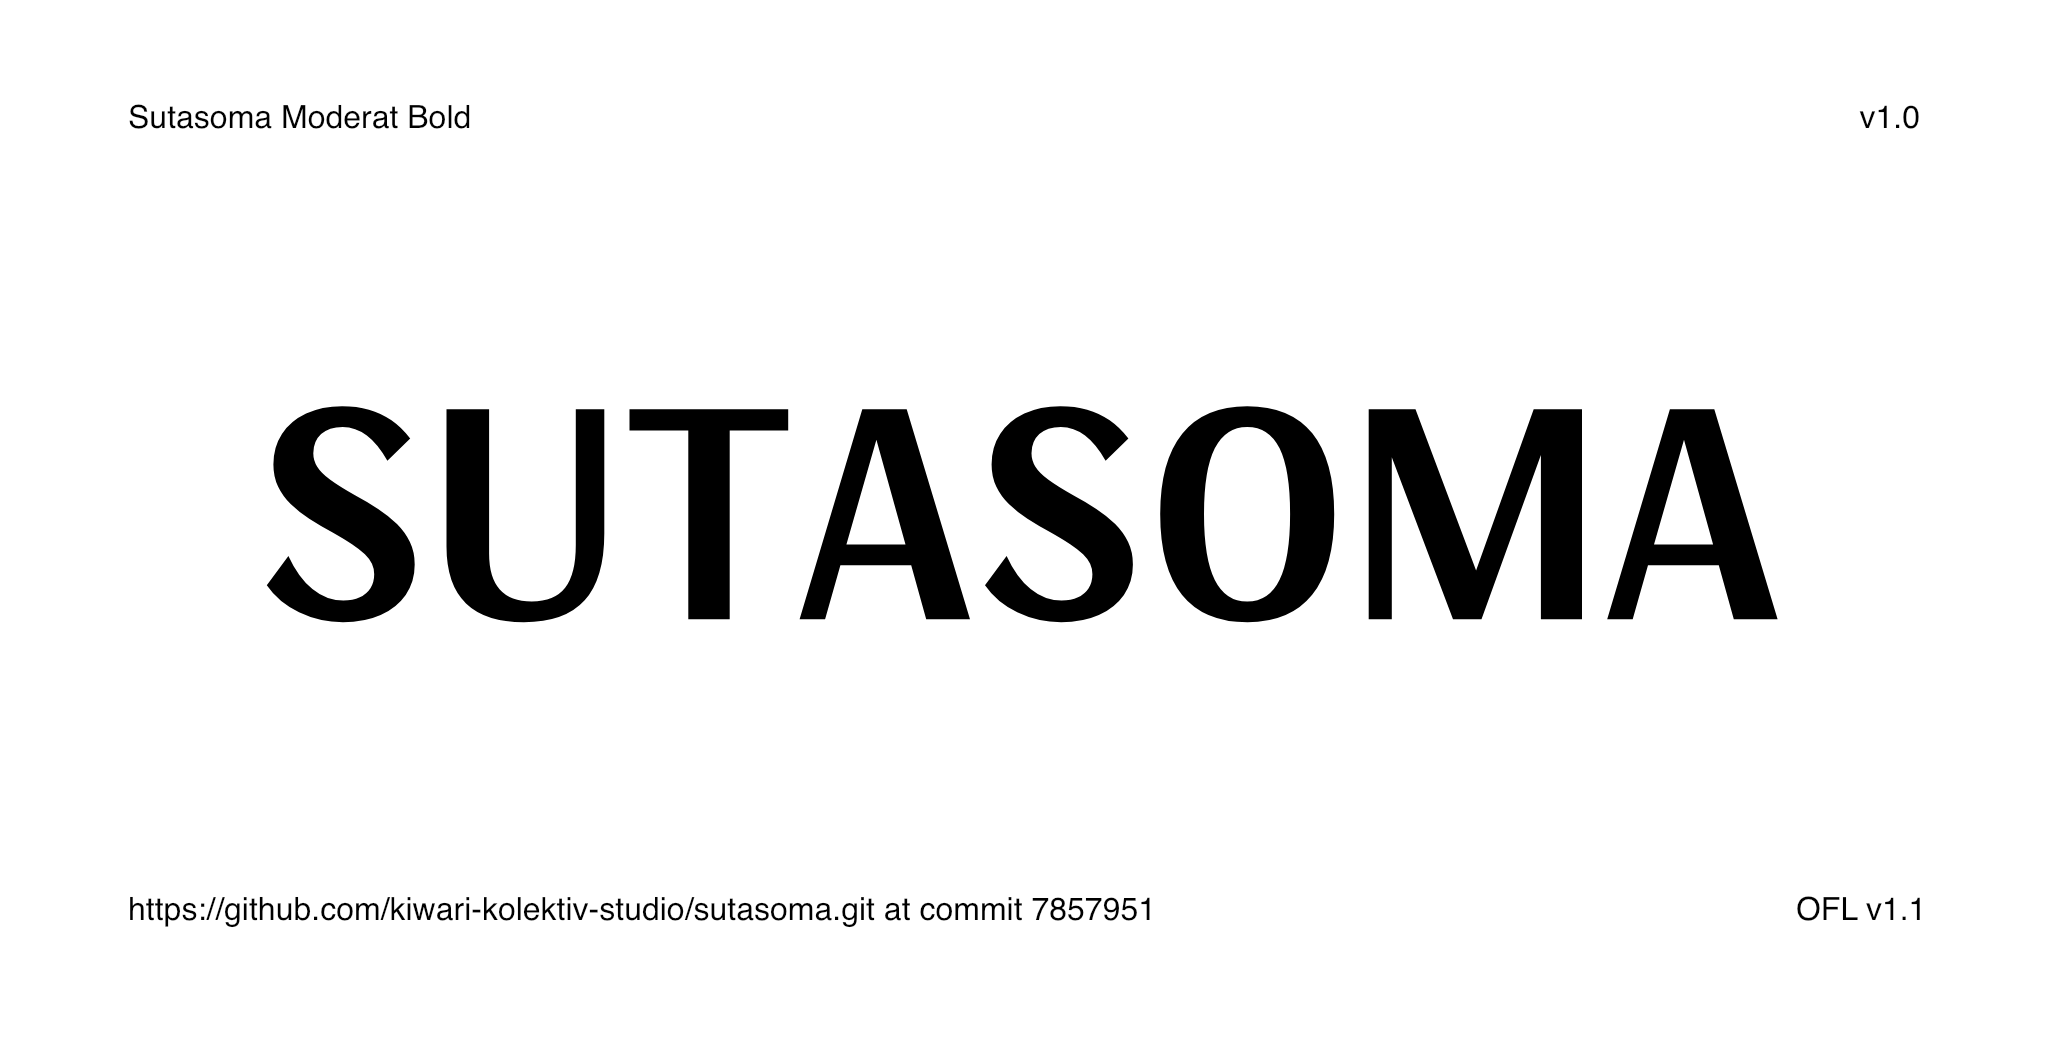
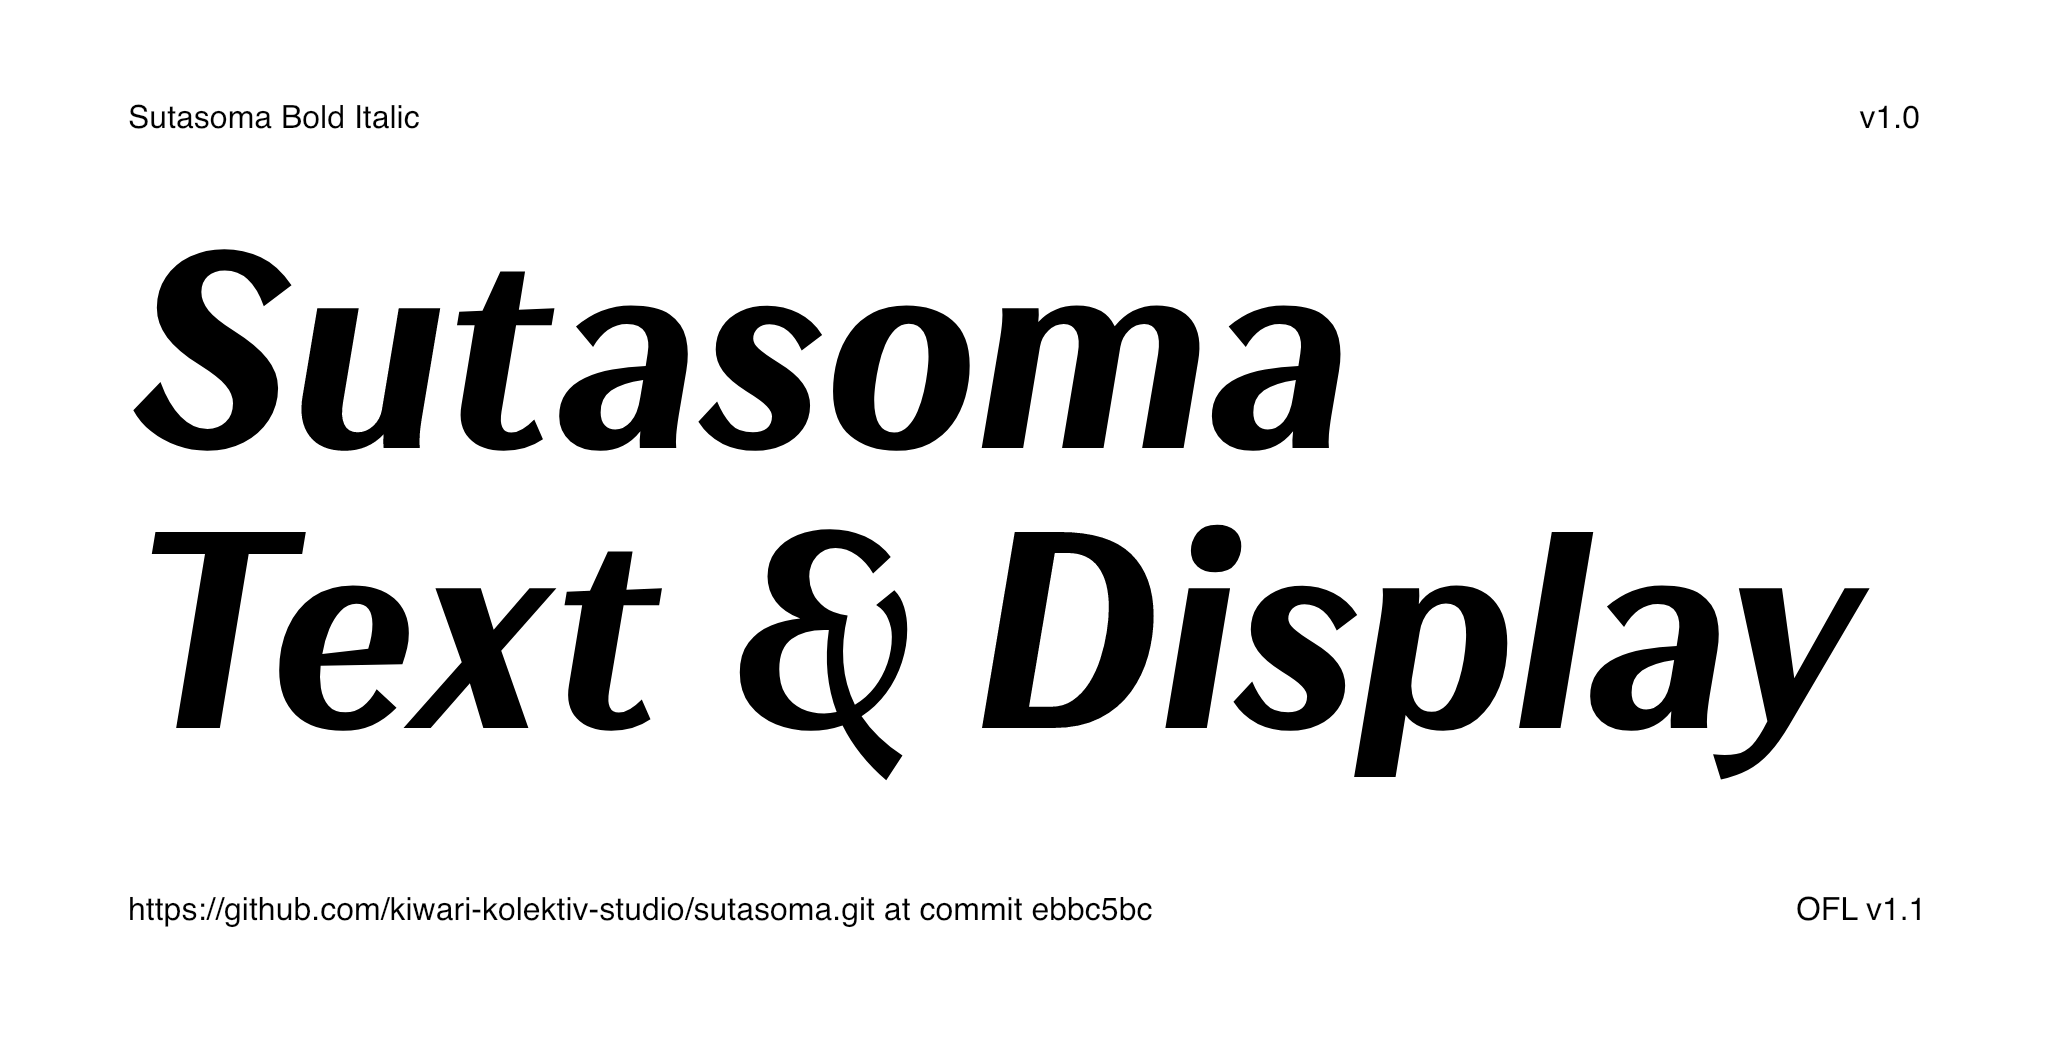
fix: Rebuild images

Changed region(s): [[0.0625, 0.2137, 0.9062, 0.7634], [0.125, 0.0916, 0.25, 0.1221], [0.5, 0.855, 0.5625, 0.8855]]

diff --git a/documentation/image1.py b/documentation/image1.py
@@ -16,14 +16,13 @@ import argparse
 
 # Constants, these are the main "settings" for the image
 WIDTH, HEIGHT, MARGIN, FRAMES = 2048, 1048, 128, 1
-FONT_PATH = "fonts/ttf/SutasomaModerat-Bold.ttf"
+FONT_PATH = "fonts/ttf/Sutasoma-BoldItalic.ttf"
 FONT_LICENSE = "OFL v1.1"
 AUXILIARY_FONT = "Helvetica"
 AUXILIARY_FONT_SIZE = 32
-BIG_TEXT = "SUTASOMA"
-BIG_TEXT_FONT_SIZE = 300
+BIG_TEXT_FONT_SIZE = 280
 BIG_TEXT_SIDE_MARGIN = MARGIN * 2
-BIG_TEXT_BOTTOM_MARGIN = MARGIN * 3.35
+BIG_TEXT_BOTTOM_MARGIN = MARGIN * 4.35
 GRID_VIEW = False # Change this to "True" for a grid overlay
 
 # Handel the "--output" flag
@@ -92,7 +91,8 @@ def draw_main_text():
     # TODO: This should be done automatically when drawbot-skia
     # has support for textBox() and FormattedString
     #text(BIG_TEXT, ((WIDTH / 2) - MARGIN * 4.75, (HEIGHT / 2) - MARGIN * 2.5))
-    text(BIG_TEXT, (BIG_TEXT_SIDE_MARGIN, BIG_TEXT_BOTTOM_MARGIN))
+    text("Sutasoma", (MARGIN, (HEIGHT - (MARGIN * 3.5))))
+    text("Text & Display", (MARGIN, MARGIN * 2.5))
 
 
 # Divider lines
